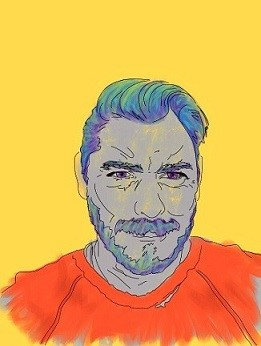
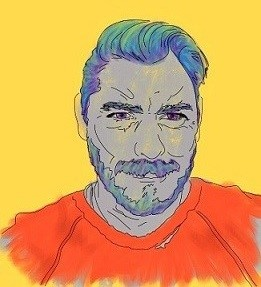
add temporary background color and crop image to sit better

diff --git a/css/styles.css b/css/styles.css
@@ -17,3 +17,12 @@
 .smaller {
     font-size:  13px;
 }
+
+body {
+    background-color: yellow
+    ;
+}
+ img {
+     padding-bottom: 2em;
+     padding-top: 2px;
+ }
